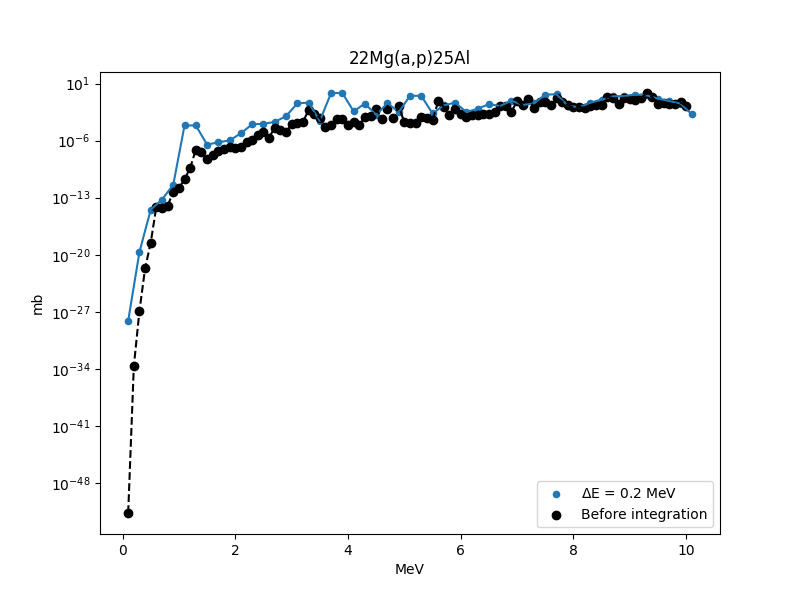
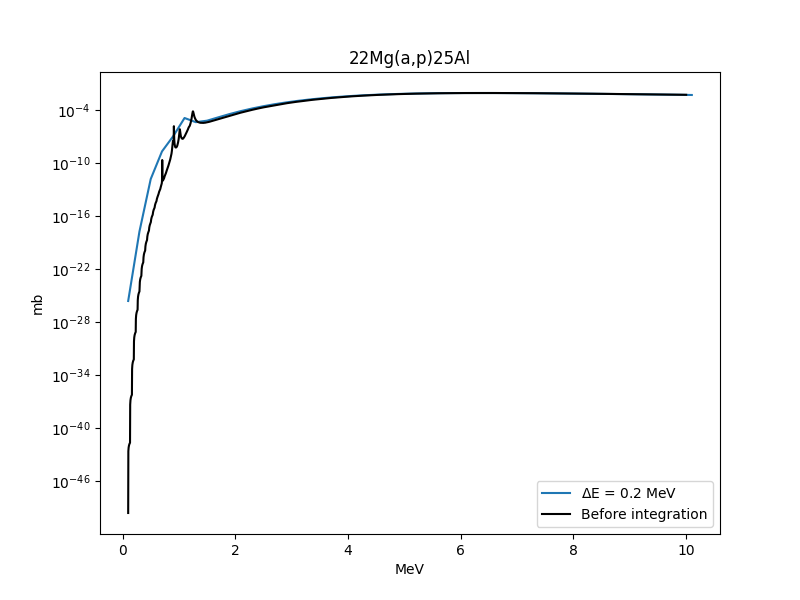
Preliminary documentation (NEEDS TO BE WELL FORMATTED LATER)

diff --git a/docs/api/ratesmc_export.md b/docs/api/ratesmc_export.md
@@ -1,0 +1,3 @@
+# RatesMC Export
+
+::: nucres.ratesmc_export

diff --git a/docs/api/hfb_adapter.md b/docs/api/hfb_adapter.md
@@ -1,0 +1,3 @@
+# HFB Adapter
+
+::: nucres.hfb_adapter

diff --git a/docs/api/read_qvals.md b/docs/api/read_qvals.md
@@ -1,0 +1,3 @@
+# Read Qvals
+
+::: nucres.read_qvals

diff --git a/docs/api/generator.md b/docs/api/generator.md
@@ -1,0 +1,3 @@
+# Generator
+
+::: nucres.generator

diff --git a/docs/api/lab_to_cm.md b/docs/api/lab_to_cm.md
@@ -1,0 +1,3 @@
+# Lab To CM
+
+::: nucres.lab_to_cm

diff --git a/docs/api/resonance.md b/docs/api/resonance.md
@@ -1,0 +1,3 @@
+# Resonance
+
+::: nucres.resonance

diff --git a/docs/api/plotting.md b/docs/api/plotting.md
@@ -1,0 +1,3 @@
+# Plotting
+
+::: nucres.plotting

diff --git a/docs/api/sampling.md b/docs/api/sampling.md
@@ -1,0 +1,3 @@
+# Sampling
+
+::: nucres.sampling

diff --git a/docs/api/physics.md b/docs/api/physics.md
@@ -1,0 +1,3 @@
+# Physics
+
+::: nucres.physics

diff --git a/docs/api/config.md b/docs/api/config.md
@@ -1,0 +1,3 @@
+# Config
+
+::: nucres.config

diff --git a/docs/api/model.md b/docs/api/model.md
@@ -1,0 +1,3 @@
+# Model
+
+::: nucres.model

diff --git a/docs/api/rates.md b/docs/api/rates.md
@@ -1,0 +1,3 @@
+# Rates
+
+::: nucres.rates
